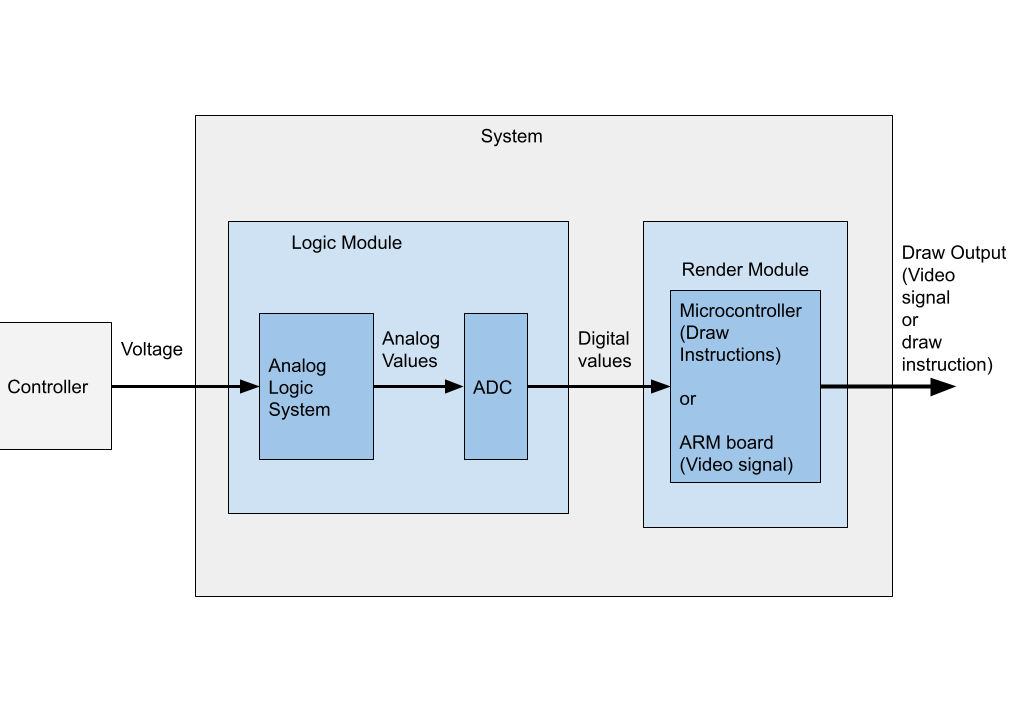
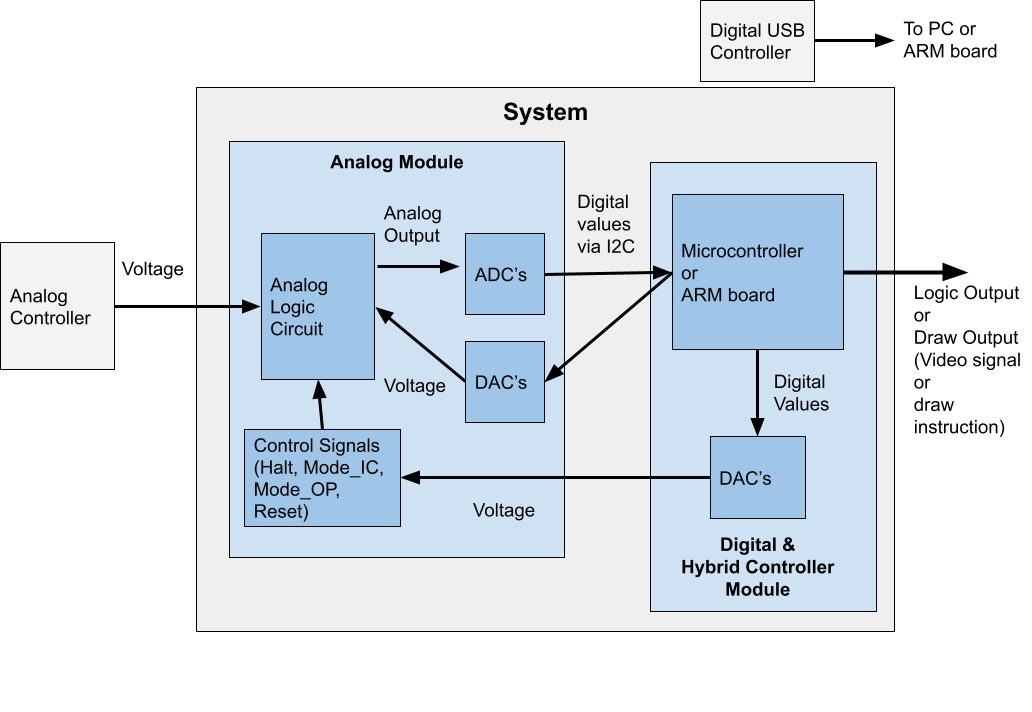
Changed design and goals of system hardware.

diff --git a/README.md b/README.md
@@ -1,14 +1,15 @@
 # Mixed-Signal Circuit Video Games
 
-This is an ambitious project that will make a video game with analog circuit logic 
-and digital rendering.
+This is an ambitious project that will make a video game system from a hybrid computing approach.
+
+The change was made from analog logic only to hybrid computing in order to give more options to developers.
+ 
+The bidirectional communication between digital & hybrid controller module and analog module 
+allows for 4 options: analog logic & digital rendering; parallel computation between analog module and 
+digital module; analog computation as part of digital computation; analog and digital module used for 
+partial computation for a personal computer. 
 
 Includes collection of test circuits.
-
-Output of analog circuit block will be some signals representing position of characters and other things.
-
-Digital rendering module will take a snapshot of these signal representations to draw a visual and aural 
-representation of the game world.
 
 op-amp modeled in these circuits is LM358A.
 
